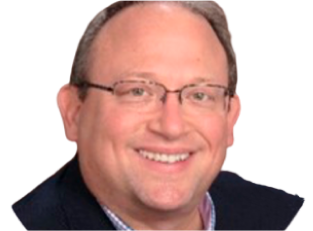
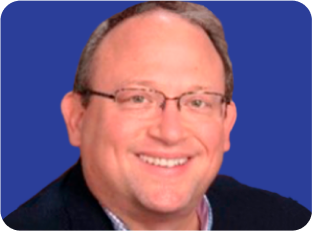
feat unfederalreserve/general#146

diff --git a/src/components/TeamBigThumbnail/TeamBigThumbnail.vue b/src/components/TeamBigThumbnail/TeamBigThumbnail.vue
@@ -9,7 +9,8 @@
         .titles
           h5 {{ title }}
           h3 {{ name }}
-          .thumbnail-social
+        .right
+          .thumbnail-social(v-if="social")
             a(
               v-for="link in social"
               :href="link.path"
@@ -19,15 +20,6 @@
               Linkedin.svg-icon(v-show="link.name === 'linkedin'")
               Facebook.svg-icon(v-show="link.name === 'facebook'")
       p.desc(v-html="description")
-      .thumbnail-social(v-if="social")
-        a(
-          v-for="link in social"
-          :href="link.path"
-          :key="link.name"
-          target="_blank"
-        ).link
-          Linkedin.svg-icon(v-show="link.name === 'linkedin'")
-          Facebook.svg-icon(v-show="link.name === 'facebook'")
 </template>
 
 <script>
@@ -77,6 +69,7 @@ export default {
     +mt(.3s)
     background: rgba(0, 0, 0, 0.08)
   &-image
+    display: none
     width: 100%
     max-width: 395px
     flex-shrink: 0
@@ -93,6 +86,7 @@ export default {
       border-radius: 40px
   &-description
     display: flex
+    flex: 1 1
     flex-direction: column
     align-items: flex-start
     *
@@ -107,11 +101,11 @@ export default {
     .thumbnail-mobile-image
       // background: linear-gradient(180deg, #4FBDCE 0%, #018CC8 100%)
       width: 100px
-      height: 152px
+      height: 100px
       margin-right: 10px
       // border-radius: 5px
       @media screen and (min-width: 768px)
-        display: none
+        // display: none
       .image
         width: 100%
         height: 100%
@@ -122,6 +116,7 @@ export default {
       flex-direction: row
       align-items: center
       justify-content: flex-start
+      width: 100%
       .titles
         display: flex
         flex-direction: column
@@ -137,33 +132,29 @@ export default {
               font-size: 20px
             @media screen and (max-width: 340px)
               font-size: 18px
+      .right
+        display: flex
+        flex: 1
+        justify-content: flex-end
         .thumbnail-social
-          @media screen and (min-width: 768px)
-            display: none
-          @media screen and (max-width: 767px)
+          display: flex
+          background: rgba(100, 133, 255, 0.25)
+          border-radius: 5px
+          padding: 5px
+          flex-direction: row
+          justify-content: center
+          .link
+            width: 30px
+            height: 30px
+            opacity: 1 !important
+            position: relative
             display: flex
-  &-social
-    display: flex
-    background: rgba(100, 133, 255, 0.25)
-    border-radius: 5px
-    padding: 5px
-    flex-direction: row
-    justify-content: center
-    margin-top: 30px
-    @media screen and (max-width: 767px)
-      display: none
-    .link
-      width: 30px
-      height: 30px
-      opacity: 1 !important
-      position: relative
-      display: flex
-      flex-direction: row
-      justify-content: center
-      align-items: center
-      .svg-icon
-        width: auto
-        height: 18px
-      &:hover
-        opacity: 0.8 !important
+            flex-direction: row
+            justify-content: center
+            align-items: center
+            .svg-icon
+              width: auto
+              height: 18px
+            &:hover
+              opacity: 0.8 !important
 </style>

diff --git a/src/pages/PageTeam.vue b/src/pages/PageTeam.vue
@@ -29,7 +29,7 @@ export default {
         {
           name: 'Howard Krieger',
           title: 'Founder & CEO',
-          image: 'team/howard-1.png',
+          image: 'team/howard100x100.png',
           description: '<p> Howard Krieger currently serves as co-founder and CEO, UnFederalReserve.'
             + 'Krieger also serves as Managing Director, CBIZ Valuation Group (“CBIZ”),'
             + 'where he specializes in the valuation of complex financial instruments including'
@@ -52,10 +52,12 @@ export default {
         {
           name: 'Kevin Thompson',
           title: 'Publications',
-          image: 'team/kevin-t.png',
-          description: '<p>Avoiding Surprises in Structuring Stock-Based Compensation Awards Considerations to Keep in</p>'
-            + '<p> Mind When Issuing Stock Options Fair Value Measurements Impact on Financial Reporting</p>'
-            + '<i>Organizations</i><p>American Society of Appraisers National Association of Certified Valuators and Analysts</p>',
+          image: 'team/kevin-t100x100.png',
+          description: '<p><b>Publications</b></p>'
+            + '<p>Avoiding Surprises in Structuring Stock-Based Compensation Awards Considerations to Keep in'
+            + 'Mind When Issuing Stock Options</p>'
+            + '<p><b>Publications</b></p>'
+            + '<p>Fair Value Measurements Impact on Financial Reporting.</p>',
           social: [
             {
               name: 'linkedin',
@@ -66,13 +68,14 @@ export default {
         {
           name: 'Ryan Medlin',
           title: 'Founder & CTO',
-          image: 'team/ryan-1.png',
+          image: 'team/ryan100x100.png',
           description: '<p> Ryan Medlin is a seasoned Silicon Valley entrepreneur and technologist'
             + 'whose most recent success was the sale of his proximity tracking and measurement'
-            + 'company, Datasnap.io, to Neustar in 2015. Medlin stayed with the company and led'
+            + 'company, Datasnap.io, to Neustar in 2015.</p>'
+            + 'Medlin stayed with the company and led'
             + 'a team of engineers to build out Neustar\'s IoT Identity initiatives. IoT Identity'
             + 'improved upon already existing public key infrastructure (PKI) by providing'
-            + 'cryptography-based policy enforcement and identity management in a secure, decentralized architecture.'
+            + 'cryptography-based policy enforcement and identity management in a secure, decentralized architecture.</p>'
             + '<p>The IoT Identity project became the foundation for building out additional blockchain and'
             + 'DLT-based prototypes: IoTA, Ethereum, Hyperledger, Rootstock, Lisk, NEO, Telehash, and Cothority protocols.</p>',
           social: [

diff --git a/src/components/TeamSmallThumbnail/TeamSmallThumbnail.vue b/src/components/TeamSmallThumbnail/TeamSmallThumbnail.vue
@@ -43,9 +43,9 @@ export default {
 .thumbnail
   display: flex
   flex-direction: column
-  background: transparent
-  border-radius: 5px
+  border-radius: 20px
   padding: 20px
+  background: #13237B
   +mt(.3s)
   &:hover
     +mt(.3s)
@@ -54,7 +54,7 @@ export default {
     width: 100%
     height: 230px
     flex-shrink: 0
-    background: linear-gradient(180deg, #4FBDCE 0%, #018CC8 100%)
+    background: #2B3E99
     border-radius: 5px
     margin-bottom: 20px
     @media screen and (max-width: 767px)
